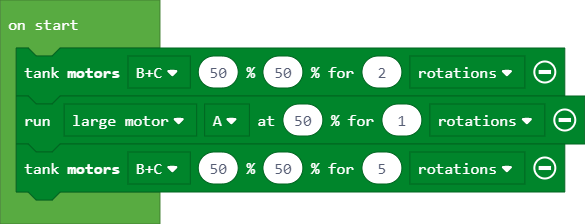
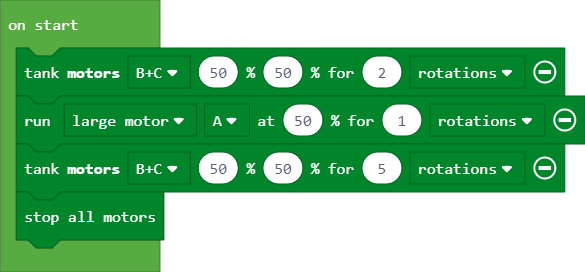
Update pxt.json, main.blocks, main.ts

Changed region(s): [[0.0, 0.0625, 1.0, 0.9375], [0.0308, 0.5312, 0.0923, 0.5625], [0.0308, 0.4375, 0.0923, 0.4688]]

diff --git a/main.ts b/main.ts
@@ -1,3 +1,4 @@
 motors.largeBC.tank(50, 50, 2, MoveUnit.Rotations)
 motors.largeA.run(50, 1, MoveUnit.Rotations)
 motors.largeBC.tank(50, 50, 5, MoveUnit.Rotations)
+motors.stopAll()
